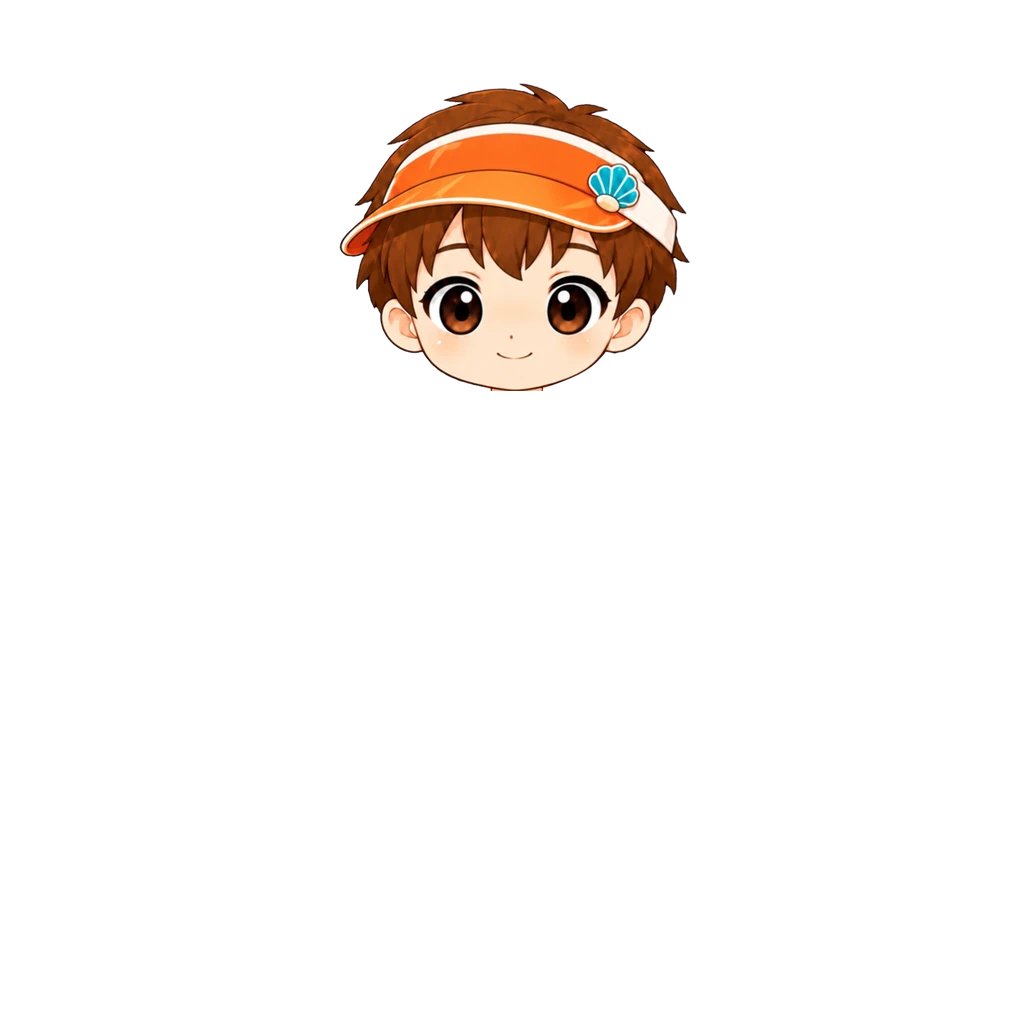
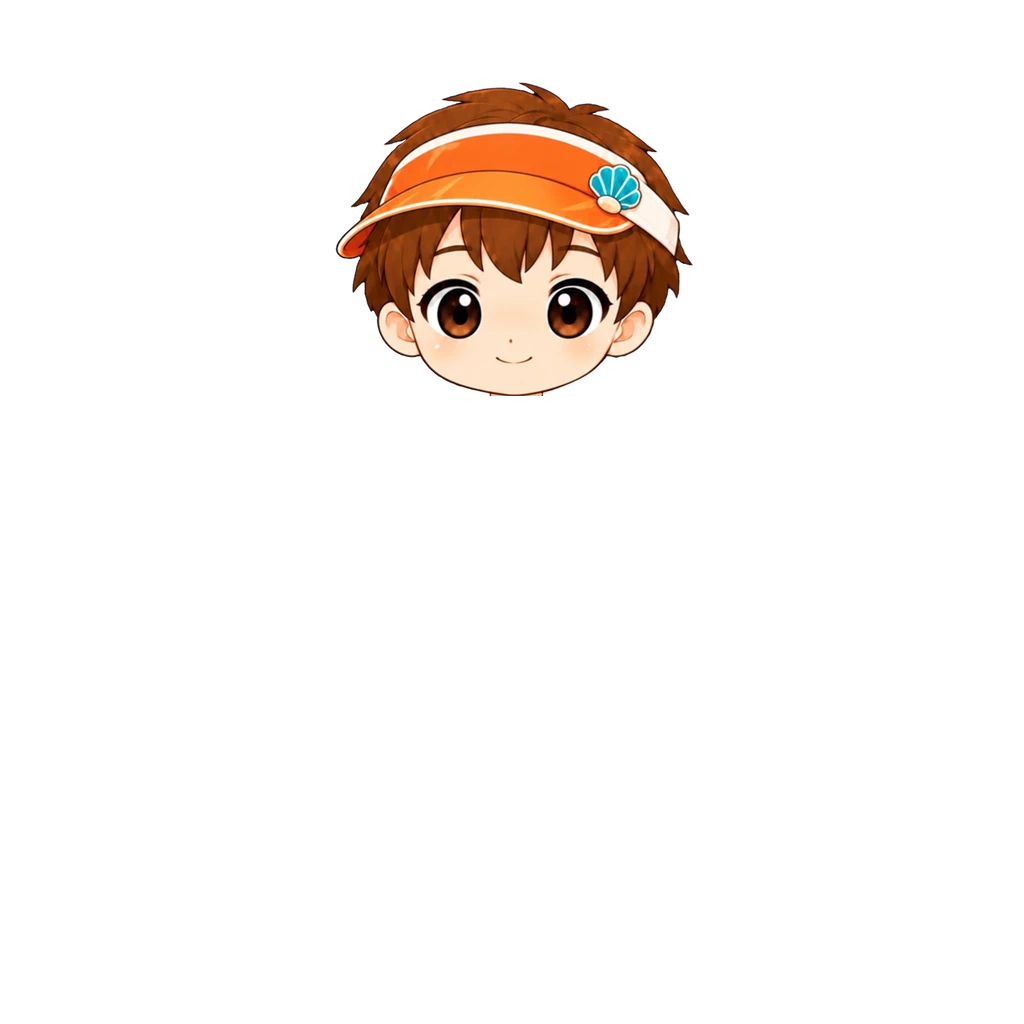
썸머 썬캡(남아) 2% 크게·아래로 5 (#864)
턱·얼굴 가운데 고정으로 배율 0.676→0.6895 후 아래로 5. img ?v=2.

Claude-Session: https://claude.ai/code/session_018maNuYqDfFyRSe9uKpZhPR

Changed region(s): [[0.3125, 0.0938, 0.6875, 0.4062], [0.4688, 0.0625, 0.5312, 0.0938], [0.5625, 0.0938, 0.5938, 0.125]]

diff --git a/src/data/avatarEquipment.js b/src/data/avatarEquipment.js
@@ -227,8 +227,9 @@ export const AVATAR_CATALOG = [
   { id: "hat_cap_boy",    slot: "hat",   label: "번개 캡모자", emoji: "🧢", price:DECOR_PRICE.rare, rarity: "rare", theme: "common", forGender: "boy", hidesHead: true, img: "assets/avatar/hat/lightning-cap-boy.webp?v=4", thumb: "assets/avatar/thumb/hat_cap_boy.webp" },
   /* 썸머 썬캡 [2026-10-04] — 남아. 주황 썬캡(조개 장식) + 얼굴 한 장(사용자 원화 520×456). 썸머 웨이브 옷과 짝.
      번개 캡모자와 같은 방식(hidesHead) — 얼굴(눈~입) 템플릿 매칭(일치 0.953)으로 배율 0.676, 원점 (339,83). y404 아래 자름.
-     탑재 상자 (339,83,691,391). */
-  { id: "hat_visor_boy",  slot: "hat",   label: "썸머 썬캡", emoji: "🧢", price:DECOR_PRICE.rare, rarity: "rare", theme: "common", forGender: "boy", hidesHead: true, img: "assets/avatar/hat/summer-visor-boy.webp", thumb: "assets/avatar/thumb/hat_visor_boy.webp" },
+     탑재 상자 (339,83,691,391).
+     [2026-10-04] 사용자 조정 — 2% 크게(배율 0.6895, 턱·얼굴 가운데 고정) 후 아래로 5, 원점 (335,82). 탑재 상자 (335,82,694,396). img ?v=2. */
+  { id: "hat_visor_boy",  slot: "hat",   label: "썸머 썬캡", emoji: "🧢", price:DECOR_PRICE.rare, rarity: "rare", theme: "common", forGender: "boy", hidesHead: true, img: "assets/avatar/hat/summer-visor-boy.webp?v=2", thumb: "assets/avatar/thumb/hat_visor_boy.webp" },
   /* 사파리 옷 — 원화가 블라우스+반바지 한 장이라 상의 슬롯 하나로 넣는다(사용자 확정).
      상의(35)가 하의(30) 위라 하의를 같이 껴도 이 그림이 덮는다. */
   /* [2026-08-20] 남아 원화가 들어와 남녀 공용이 됐다 — 그림이 성별로 갈리는 첫 아이템.

diff --git a/art-src/README.md b/art-src/README.md
@@ -603,4 +603,4 @@ bbox로 여백만 잘라내고 배포본은 높이 480px로 축소했다(전부 
 | thumb-src-shoes_sandal.webp | **상점 목록 그림 남아 썸머 샌들 (shoes_sandal, 사용자 원화 2026-10-04)** — 상점 카드에만 보이는 한 짝 아이콘. 355×296 투명 배경, 세로 160px 로 줄여 탑재(thumb ?v=2) | avatar/thumb/shoes_sandal.webp |
 | thumb-src-shoes_fins.webp | **상점 목록 그림 남아 바다 오리발 (shoes_fins, 사용자 원화 2026-10-04)** — 상점 카드에만 보이는 한 짝 아이콘. 374×325 투명 배경, 세로 160px 로 줄여 탑재(thumb ?v=2) | avatar/thumb/shoes_fins.webp |
 | lightning-cap-boy-src.webp | **번개 캡모자 원화 남아 — 모자+얼굴 한 장 (사용자 원화 2026-10-04)** — 589×500 투명 배경, 청록 캡(뒤로 쓴 챙·형광 번개). 사파리 모자처럼 hidesHead 로 기본 머리를 대신한다. 얼굴 템플릿 매칭(일치 0.956)으로 배율 0.644·원점 (336,76), y404 아래 자름. 탑재 상자 (336,76,715,398). **[2026-10-04 조정]** 아래로 1(원점 (336,77)) · img ?v=2. 다시 아래로 1(원점 (336,78)) · img ?v=3. 머리 3% 크게(배율 0.6633, 턱·가운데 고정, 원점 (331,68)) · img ?v=4. 상점 그림은 원화를 세로 160px 로 | avatar/hat/lightning-cap-boy.webp · thumb/hat_cap_boy.webp |
-| summer-visor-boy-src.webp | **썸머 썬캡 원화 남아 — 모자+얼굴 한 장 (사용자 원화 2026-10-04)** — 520×456 투명 배경, 주황 썬캡(조개 장식). hidesHead 로 기본 머리를 대신한다. 얼굴 템플릿 매칭(일치 0.953)으로 배율 0.676·원점 (339,83), y404 아래 자름. 탑재 상자 (339,83,691,391). 상점 그림은 원화를 세로 160px 로 | avatar/hat/summer-visor-boy.webp · thumb/hat_visor_boy.webp |
+| summer-visor-boy-src.webp | **썸머 썬캡 원화 남아 — 모자+얼굴 한 장 (사용자 원화 2026-10-04)** — 520×456 투명 배경, 주황 썬캡(조개 장식). hidesHead 로 기본 머리를 대신한다. 얼굴 템플릿 매칭(일치 0.953)으로 배율 0.676·원점 (339,83), y404 아래 자름. 탑재 상자 (339,83,691,391). **[2026-10-04 조정]** 2% 크게(0.6895)·아래로 5, 원점 (335,82) · img ?v=2. 상점 그림은 원화를 세로 160px 로 | avatar/hat/summer-visor-boy.webp · thumb/hat_visor_boy.webp |
